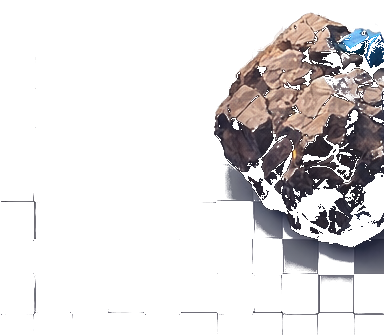
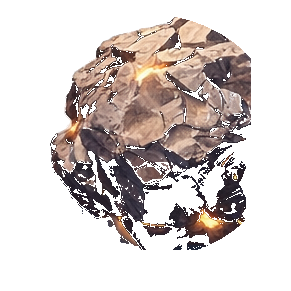
Sanitize asteroid PNG files and harden in-game asteroid masking

diff --git a/frontend/src/game/assets.ts b/frontend/src/game/assets.ts
@@ -19,7 +19,26 @@ function loadImage(src: string): Promise<HTMLImageElement> {
   });
 }
 
-function extractPrimaryAsteroidSprite(image: HTMLImageElement): HTMLCanvasElement {
+interface ExtractedAsteroid {
+  sprite: HTMLCanvasElement;
+  touchesEdge: boolean;
+}
+
+function mirrorCanvas(input: HTMLCanvasElement): HTMLCanvasElement {
+  const out = document.createElement("canvas");
+  out.width = input.width;
+  out.height = input.height;
+  const ctx = out.getContext("2d");
+  if (!ctx) {
+    throw new Error("Unable to create mirror canvas for asteroid sprite");
+  }
+  ctx.translate(out.width, 0);
+  ctx.scale(-1, 1);
+  ctx.drawImage(input, 0, 0);
+  return out;
+}
+
+function extractPrimaryAsteroidSprite(image: HTMLImageElement): ExtractedAsteroid {
   const source = document.createElement("canvas");
   source.width = image.width;
   source.height = image.height;
@@ -36,7 +55,7 @@ function extractPrimaryAsteroidSprite(image: HTMLImageElement): HTMLCanvasElemen
   const visited = new Uint8Array(width * height);
   const alphaThreshold = 22;
 
-  type Component = { area: number; minX: number; minY: number; maxX: number; maxY: number; centerDist: number };
+  type Component = { area: number; minX: number; minY: number; maxX: number; maxY: number; centerDist: number; pixels: number[] };
   let best: Component | null = null;
 
   const stackX = new Int32Array(width * height);
@@ -69,6 +88,7 @@ function extractPrimaryAsteroidSprite(image: HTMLImageElement): HTMLCanvasElemen
       let maxY = y;
       let sumX = 0;
       let sumY = 0;
+      const pixels: number[] = [];
 
       while (top > 0) {
         top -= 1;
@@ -83,6 +103,7 @@ function extractPrimaryAsteroidSprite(image: HTMLImageElement): HTMLCanvasElemen
         area += 1;
         sumX += px;
         sumY += py;
+        pixels.push(pIdx);
         if (px < minX) minX = px;
         if (px > maxX) maxX = px;
         if (py < minY) minY = py;
@@ -119,7 +140,7 @@ function extractPrimaryAsteroidSprite(image: HTMLImageElement): HTMLCanvasElemen
       const compCenterX = sumX / area;
       const compCenterY = sumY / area;
       const centerDist = (compCenterX - cx) * (compCenterX - cx) + (compCenterY - cy) * (compCenterY - cy);
-      const candidate: Component = { area, minX, minY, maxX, maxY, centerDist };
+      const candidate: Component = { area, minX, minY, maxX, maxY, centerDist, pixels };
 
       if (!best) {
         best = candidate;
@@ -134,7 +155,7 @@ function extractPrimaryAsteroidSprite(image: HTMLImageElement): HTMLCanvasElemen
   }
 
   if (!best) {
-    return source;
+    return { sprite: source, touchesEdge: false };
   }
 
   const padding = 10;
@@ -154,8 +175,72 @@ function extractPrimaryAsteroidSprite(image: HTMLImageElement): HTMLCanvasElemen
 
   const dx = (size - cropWidth) / 2;
   const dy = (size - cropHeight) / 2;
-  outCtx.drawImage(source, cropX, cropY, cropWidth, cropHeight, dx, dy, cropWidth, cropHeight);
-  return out;
+  const drawX = Math.round(dx);
+  const drawY = Math.round(dy);
+
+  const outImageData = outCtx.createImageData(size, size);
+  const outData = outImageData.data;
+
+  for (const sourceIndex of best.pixels) {
+    const sx = sourceIndex % width;
+    const sy = Math.floor(sourceIndex / width);
+
+    if (sx < cropX || sx >= cropX + cropWidth || sy < cropY || sy >= cropY + cropHeight) {
+      continue;
+    }
+
+    const tx = sx - cropX + drawX;
+    const ty = sy - cropY + drawY;
+    if (tx < 0 || ty < 0 || tx >= size || ty >= size) {
+      continue;
+    }
+
+    const sourceOffset = sourceIndex * 4;
+    const targetOffset = (ty * size + tx) * 4;
+    outData[targetOffset] = data[sourceOffset];
+    outData[targetOffset + 1] = data[sourceOffset + 1];
+    outData[targetOffset + 2] = data[sourceOffset + 2];
+    outData[targetOffset + 3] = data[sourceOffset + 3];
+  }
+
+  const center = size / 2;
+  const radius = size * 0.48;
+  const feather = size * 0.07;
+
+  for (let y = 0; y < size; y += 1) {
+    for (let x = 0; x < size; x += 1) {
+      const offset = (y * size + x) * 4;
+      const alpha = outData[offset + 3];
+      if (alpha === 0) {
+        continue;
+      }
+
+      const dxFromCenter = x + 0.5 - center;
+      const dyFromCenter = y + 0.5 - center;
+      const dist = Math.sqrt(dxFromCenter * dxFromCenter + dyFromCenter * dyFromCenter);
+      if (dist > radius) {
+        outData[offset + 3] = 0;
+      } else if (dist > radius - feather) {
+        const factor = (radius - dist) / feather;
+        outData[offset + 3] = Math.round(alpha * factor);
+      }
+    }
+  }
+
+  outCtx.putImageData(outImageData, 0, 0);
+
+  const touchesEdge = best.minX <= 4 || best.minY <= 4 || best.maxX >= width - 5 || best.maxY >= height - 5;
+  return { sprite: out, touchesEdge };
+}
+
+function buildAsteroidPool(asteroids: ExtractedAsteroid[]): HTMLCanvasElement[] {
+  let base = asteroids.filter((item) => !item.touchesEdge).map((item) => item.sprite);
+  if (base.length < 4) {
+    base = asteroids.map((item) => item.sprite);
+  }
+
+  const mirrored = base.map((sprite) => mirrorCanvas(sprite));
+  return [...base, ...mirrored];
 }
 
 let assetsPromise: Promise<GameAssets> | null = null;
@@ -180,7 +265,7 @@ export function loadGameAssets(): Promise<GameAssets> {
     backgroundFallback,
     shipIdle,
     shipFire,
-    asteroids: asteroids.map((sprite) => extractPrimaryAsteroidSprite(sprite)),
+    asteroids: buildAsteroidPool(asteroids.map((sprite) => extractPrimaryAsteroidSprite(sprite))),
   }));
 
   return assetsPromise;

diff --git a/frontend/src/game/engine.ts b/frontend/src/game/engine.ts
@@ -254,7 +254,11 @@ export class SpaceShooterEngine {
       this.ctx.save();
       this.ctx.translate(asteroid.x, asteroid.y);
       this.ctx.rotate(asteroid.rotation);
-      this.ctx.drawImage(asteroid.sprite, -asteroid.radius, -asteroid.radius, diameter, diameter);
+      this.ctx.beginPath();
+      // Tight clipping removes residual checker/shadow artifacts embedded in source PNGs.
+      this.ctx.arc(0, 0, asteroid.radius * 0.84, 0, Math.PI * 2);
+      this.ctx.clip();
+      this.ctx.drawImage(asteroid.sprite, -asteroid.radius, -asteroid.radius * 1.12, diameter, diameter);
       this.ctx.restore();
     }
 
